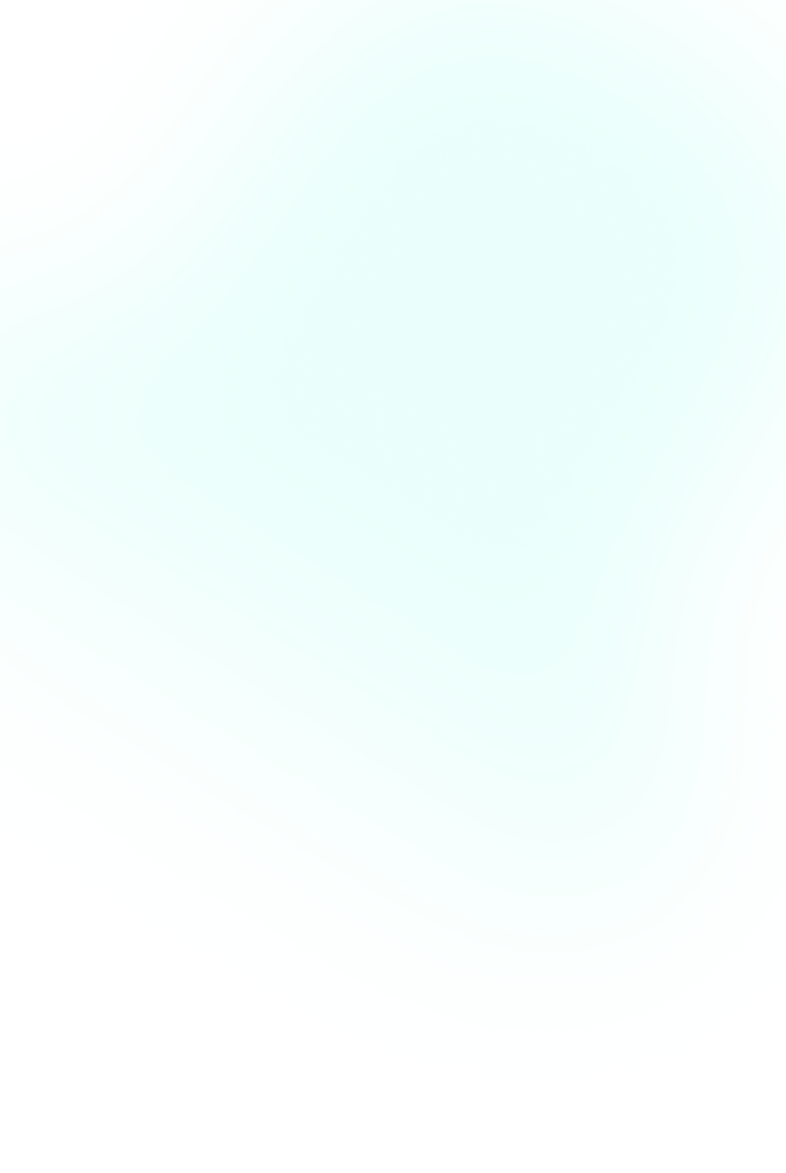
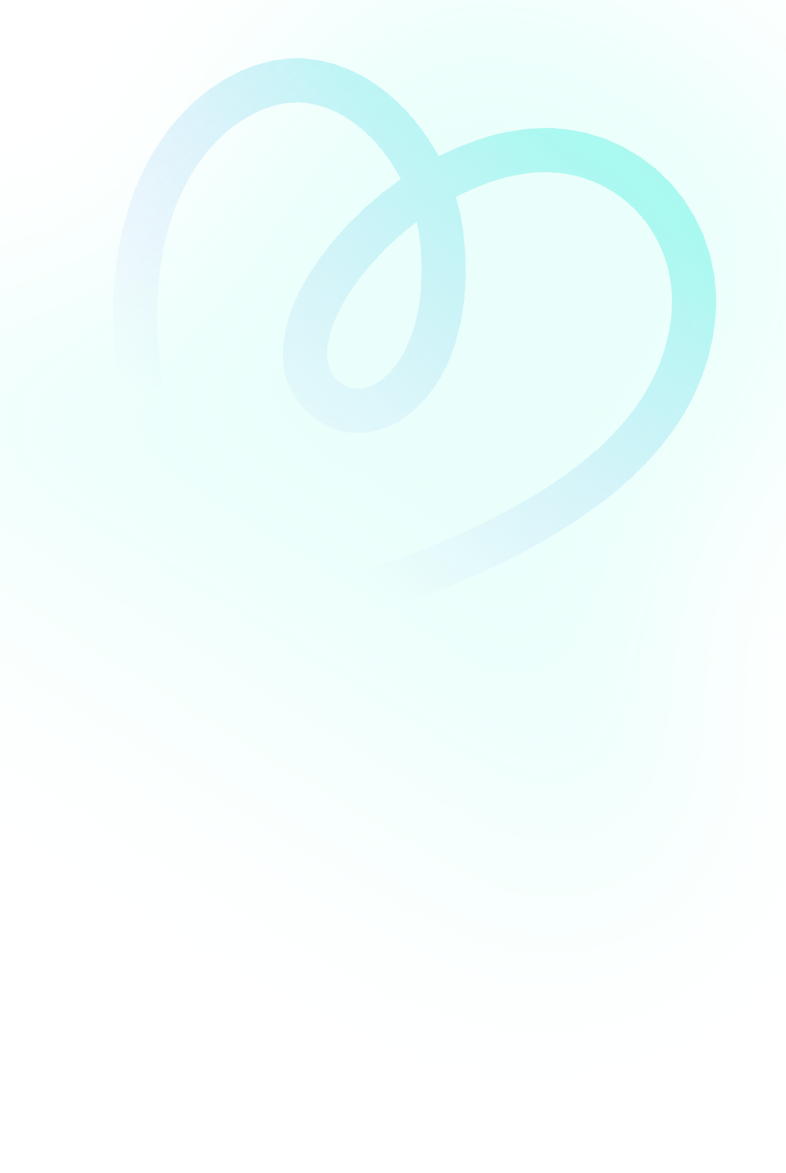
Update background images for upload pages

Changed region(s): [[0.2137, 0.0307, 0.916, 0.4297]]

diff --git a/src/components/dropzone.tsx b/src/components/dropzone.tsx
@@ -1,7 +1,6 @@
 'use client';
 
 import { useDropzone } from 'react-dropzone';
-import Image from 'next/image';
 import styles from './dropzone.module.css';
 import { cn } from '../lib/utils';
 
@@ -12,7 +11,6 @@ type DropzoneProps = {
 
 export default function Dropzone({ className, onDropFile }: DropzoneProps) {
   const { isDragAccept, isDragReject, getRootProps } = useDropzone({
-    noClick: true,
     accept: {
       'application/json': ['.json'],
       // 'application/zip': ['.zip'], TODO: For now only JSON file is acceptable in test mode
@@ -26,7 +24,7 @@ export default function Dropzone({ className, onDropFile }: DropzoneProps) {
         className: cn(
           styles.root,
           className,
-          'flex h-[230px] w-full items-center justify-center rounded-[46px]',
+          'h-[230px] w-full rounded-[46px]',
           isDragAccept
             ? styles.fileAccepted
             : isDragReject
@@ -34,13 +32,6 @@ export default function Dropzone({ className, onDropFile }: DropzoneProps) {
               : '',
         ),
       })}
-    >
-      <Image
-        src="/images/landing-page/download-icon.svg"
-        alt="Download Icon"
-        width={100}
-        height={75}
-      />
-    </div>
+    />
   );
 }

diff --git a/src/app/page.tsx b/src/app/page.tsx
@@ -37,7 +37,12 @@ export default function Home() {
 
   if (isUploading) {
     return (
-      <div className="flex w-full flex-1 flex-col items-center justify-center">
+      <div
+        className={cn(
+          styles.loadingContainer,
+          'flex min-h-screen w-full flex-1 flex-col items-center justify-center',
+        )}
+      >
         <Image
           src="/images/landing-page/loading-heart.png"
           alt="Loading"
@@ -54,12 +59,17 @@ export default function Home() {
   }
 
   return (
-    <div className="flex w-full flex-1 flex-col">
+    <div
+      className={cn(
+        styles.container,
+        'flex min-h-screen w-full flex-col justify-between pt-[80px]',
+      )}
+    >
       <h1 className="mt-[75px] text-center text-4xl">Upload your data</h1>
       <div
         className={cn(
-          'mx-[-30px] mt-[75px] flex-1 rounded-t-[42px] px-[24px] pb-[50px] pt-[32px]',
-          styles.dropZone,
+          'mt-[75px] rounded-t-[42px] px-[24px] pb-[50px] pt-[32px]',
+          styles.dropContainer,
         )}
       >
         <div className="text-center">

diff --git a/src/components/activities/activities.tsx b/src/components/activities/activities.tsx
@@ -1,6 +1,8 @@
 import { Fragment } from 'react';
 import { Activities as ActivitiesType } from '../../models/activities.model';
 import ActivityBlock from './activity-block';
+import styles from './activities.module.css';
+import { cn } from '../../lib/utils';
 
 type ActivitiesProps = {
   activities: ActivitiesType;
@@ -54,7 +56,12 @@ const months = [
 
 export default function Activities({ activities }: ActivitiesProps) {
   return (
-    <div className="mt-[36px] grid grid-cols-8 gap-[8px] rounded-[24px] bg-white bg-opacity-15 px-[4px] py-[24px] text-xs">
+    <div
+      className={cn(
+        styles.activitiesContainer,
+        'mt-[36px] grid grid-cols-8 gap-[8px] rounded-[24px] bg-white bg-opacity-30 py-[24px] pe-[18px] ps-[4px] text-xs',
+      )}
+    >
       <div />
       {days.map((day) => (
         <div key={day.key} className="text-center">

diff --git a/src/app/activities/page.tsx b/src/app/activities/page.tsx
@@ -10,6 +10,8 @@ import {
 } from '../../constants';
 import { ActivitiesContext } from '../../contexts/activitiesContext';
 import Activities from '../../components/activities/activities';
+import styles from './page.module.css';
+import { cn } from '../../lib/utils';
 
 export default function ActivitiesOverview() {
   const router = useRouter();
@@ -26,7 +28,12 @@ export default function ActivitiesOverview() {
   }
 
   return (
-    <div className="flex-1">
+    <div
+      className={cn(
+        styles.container,
+        'min-h-screen flex-1 px-[30px] pt-[80px]',
+      )}
+    >
       <h1 className="mt-[38px] text-center text-4xl">App Opened</h1>
       <Activities activities={activities} />
       <div className="mt-[21px] flex items-center justify-between rounded-[82px] bg-white bg-opacity-10 px-[32px] py-[16px]">

diff --git a/src/app/page.module.css b/src/app/page.module.css
@@ -1,4 +1,19 @@
-.dropZone {
-  background: linear-gradient(272.48deg, rgba(101, 98, 226, 0.15) 4.97%, rgba(255, 255, 255, 0) 104.25%);
+.container {
+  background: url('/images/landing-page/background.png');
+}
+
+.dropContainer {
+  background: url('/images/landing-page/dropzone-background.svg');
+  background-position: 0 0;
+  background-repeat: no-repeat;
+  background-size: cover;
   box-shadow: 0px 23px 36.2px 0px #474E7033;
+  background-color: #1C1F37;
+}
+
+.loadingContainer {
+  background: url('/images/landing-page/loading-background.svg');
+  background-position: 0 0;
+  background-repeat: no-repeat;
+  background-size: cover;
 }

diff --git a/src/app/layout.tsx b/src/app/layout.tsx
@@ -25,7 +25,7 @@ export default function RootLayout({
       >
         <ActivitiesProvider>
           <Header />
-          <div className="flex flex-1 flex-col px-[30px]">{children}</div>
+          <div>{children}</div>
         </ActivitiesProvider>
       </body>
     </html>

diff --git a/src/components/dropzone.module.css b/src/components/dropzone.module.css
@@ -1,6 +1,9 @@
 .root {
   box-shadow: 20px 20px 30px 0px #222343 inset;
-  background: #27324D;
+  background-color: #27324D;
+  background: url('/images/landing-page/download-icon.svg');
+  background-repeat: no-repeat;
+  background-position: center;
 }
 
 .fileAccepted {

diff --git a/src/components/header.tsx b/src/components/header.tsx
@@ -7,7 +7,7 @@ export default function Header() {
       alt="Roast Logo"
       width={125}
       height={30}
-      className="z-50 mx-auto mt-[80px]"
+      className="absolute left-1/2 top-[80px] z-50 mx-auto -translate-x-1/2"
     />
   );
 }

diff --git a/src/app/activities/page.module.css b/src/app/activities/page.module.css
@@ -1,0 +1,6 @@
+.container {
+  background: url('/images/activities/background.svg');
+  background-position: 0 0;
+  background-repeat: no-repeat;
+  background-size: cover;
+}

diff --git a/src/components/activities/activities.module.css b/src/components/activities/activities.module.css
@@ -1,0 +1,4 @@
+.activitiesContainer {
+  border: 1px solid;
+  border-image-source: linear-gradient(326.69deg, rgba(255, 255, 255, 0.5) 0.06%, rgba(0, 0, 0, 0) 111.4%);
+}
